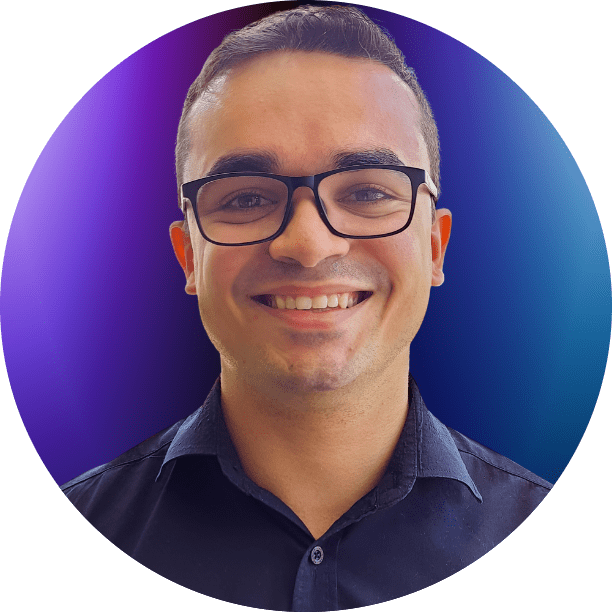
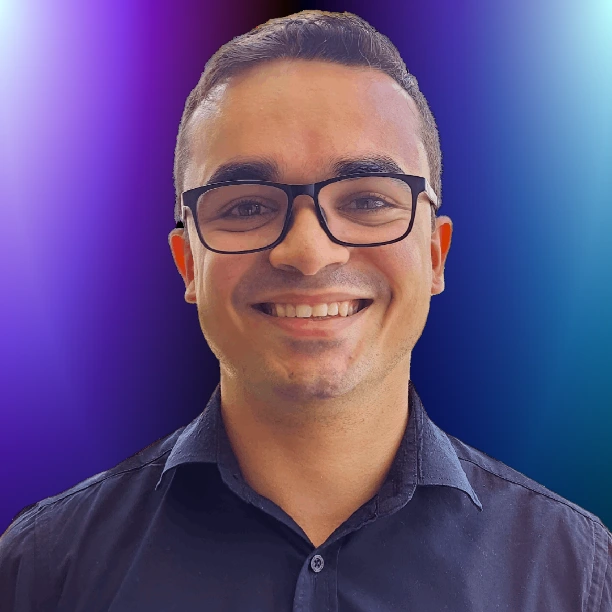
feat: update sections

diff --git a/src/app/[locale]/page.tsx b/src/app/[locale]/page.tsx
@@ -1,19 +1,16 @@
 import { Heading } from "@/components/Heading";
 import { Projects } from "@/components/Projects";
 import { Section } from "@/components/Section";
-import { Jobs } from "@/components/Jobs";
-import { Hero } from "@/components/Hero";
 import { SocialLinks } from "@/components/SocialLinks";
 import CTA from "@/components/CTA";
 import { SkillCards } from "@/components/SkillCards";
 import { Metadata } from "next";
 import { dictionaries, getTranslation } from "./i18n";
-import ia from "@/assets/ia.webp";
-import sorriso from "@/assets/sorriso.webp";
-import wood from "@/assets/wood.webp";
 import arcCarousel from "@/assets/arc-carousel.webp";
 import repowars from "@/assets/repowars.webp";
-import { CoverCard } from "@/components/Card/Cover";
+import { CoverCard } from "@/components/Cards/Cover";
+import { Timeline } from "@/components/Timeline";
+import { ProfilePic } from "@/components/ProfilePic";
 
 type Params = {
   params: {
@@ -28,12 +25,29 @@ export default async function Home({ params }: Params) {
 
   return (
     <div className="backgrounds">
-      <Hero title="Maurício Bruno" tagline={t.hero.tagline}>
-        <SocialLinks />
-      </Hero>
+      <Section id="/" variant="hero">
+        <div
+          className="flex flex-col items-center gap-3 text-center md:items-start md:text-start"
+          data-aos="fade-right"
+          data-aos-duration="200"
+        >
+          <Heading as="h1">Maurício Bruno</Heading>
+          <p className="text-xl text-secondary-color lg:text-3xl">
+            {t.hero.tagline}
+          </p>
+          <div className="flex gap-3 mt-2">
+            <SocialLinks />
+          </div>
+        </div>
+        <ProfilePic data-aos="fade-left" data-aos-duration="200" />
+      </Section>
 
       <Section id="about" variant="featured">
-        <div className="grid items-center lg:grid-cols-2 gap-y-8">
+        <div
+          className="grid items-center lg:grid-cols-2 gap-y-8"
+          data-aos="fade-up"
+          data-aos-offset="200"
+        >
           <div className="text-left text-secondary-color md:text-lg">
             <Heading as="h2">{t.about.title}</Heading>
             <p className="mt-8 mb-4">{t.about.firstParagraph}</p>
@@ -44,36 +58,12 @@ export default async function Home({ params }: Params) {
         </div>
       </Section>
 
-      <Section id="jobs">
-        <Heading as="h2">{t.jobs.title}</Heading>
-        <p className="mt-2 mb-12 text-lg text-secondary-color">
-          {t.jobs.subtitle}
-        </p>
-        <Jobs
-          list={[
-            {
-              title: t.jobs.ia.title,
-              description: t.jobs.ia.description,
-              link: "https://inglesaplicado.com.br/v2",
-              imgUrl: ia,
-            },
-            {
-              title: t.jobs.sorriso.title,
-              description: t.jobs.sorriso.description,
-              link: "https://clinicasorrisoecia.com.br/",
-              imgUrl: sorriso,
-            },
-            {
-              title: t.jobs.wood.title,
-              description: t.jobs.wood.description,
-              link: "https://woodexpress.ind.br/",
-              imgUrl: wood,
-            },
-          ]}
-        />
-      </Section>
-
-      <Section id="projects">
+      <Section
+        id="projects"
+        className="md:pt-28 lg:pt-36"
+        data-aos="fade-up"
+        data-aos-offset="300"
+      >
         <Heading as="h2">{t.projects.title}</Heading>
         <p className="mt-2 text-lg text-secondary-color">
           {t.projects.subtitle}
@@ -108,7 +98,21 @@ export default async function Home({ params }: Params) {
         />
       </Section>
 
-      <Section id="talks">
+      <Section id="experience" data-aos="fade-up" className="md:pt-28 lg:pt-36">
+        <Heading as="h2">{t.experience.title}</Heading>
+        <p className="mt-2 mb-12 text-lg text-secondary-color">
+          {t.experience.subtitle}
+        </p>
+
+        <Timeline experiences={t.experience.list} />
+      </Section>
+
+      <Section
+        id="talks"
+        className="lg:pt-32"
+        data-aos="fade-up"
+        data-aos-offset="300"
+      >
         <Heading as="h2">{t.talks.title}</Heading>
 
         <div className="grid justify-center grid-cols-1 gap-8 mt-16 sm:px-12 md:max-w-2xl md:mx-auto">

diff --git a/src/components/Navbar/index.tsx b/src/components/Navbar/index.tsx
@@ -2,6 +2,7 @@
 import React, { useEffect, useState } from "react";
 import * as NavigationMenu from "@radix-ui/react-navigation-menu";
 import { Hamburger } from "./Hamburger";
+import { twMerge } from "tailwind-merge";
 
 type NavbarProps = {
   links: {
@@ -31,9 +32,11 @@ export const Navbar: React.FC<NavbarProps> = ({ links }) => {
 
   return (
     <NavigationMenu.Root
-      className={`fixed w-full p-4 md:px-12 lg:px-20 md:py-10 z-10  transition-all ${
+      className={twMerge(
+        "fixed w-full p-4 md:px-12 lg:px-20 md:py-10 z-10 transition-all",
         isScrolling && "py-3 gap-y-1 md:py-5 bg-zinc-900/60 backdrop-blur-md"
-      }`}
+      )}
+      data-aos="fade-down"
     >
       <NavigationMenu.List className="flex flex-row items-center justify-between gap-2">
         <NavigationMenu.Item>
@@ -98,24 +101,6 @@ export const Navbar: React.FC<NavbarProps> = ({ links }) => {
           </NavigationMenu.Item>
         </div>
       </NavigationMenu.List>
-
-      {/* <NavigationMenu.List
-        className={`hidden md:flex gap-4 px-4 transition-border ml-auto ${
-          !isScrolling &&
-          "py-2 rounded-full border border-primary-color bg-zinc-900/60 shadow-md shadow-gray-50/20"
-        }`}
-      >
-        {links.map((link) => (
-          <NavigationMenu.Item key={link.name}>
-            <NavigationMenu.Link
-              href={link.href}
-              className="text-secondary-color hover:text-primary-color"
-            >
-              {link.name}
-            </NavigationMenu.Link>
-          </NavigationMenu.Item>
-        ))}
-      </NavigationMenu.List> */}
     </NavigationMenu.Root>
   );
 };

diff --git a/src/components/Cards/Experience.tsx b/src/components/Cards/Experience.tsx
@@ -1,8 +1,5 @@
-import { HTMLAttributes } from "react";
-import { twMerge } from "tailwind-merge";
-
 type ExperienceCardProps = {
-  title: string;
+  company: string;
   role: string;
   period: string;
   description: string;
@@ -10,7 +7,7 @@ type ExperienceCardProps = {
 };
 
 export const ExperienceCard: React.FC<ExperienceCardProps> = ({
-  title,
+  company,
   role,
   period,
   description,
@@ -18,7 +15,7 @@ export const ExperienceCard: React.FC<ExperienceCardProps> = ({
 }) => {
   const content = (
     <>
-      <h3 className="text-xl font-bold text-white">{title}</h3>
+      <h3 className="text-xl font-bold text-white">{company}</h3>
       <p className="mb-4 text-base text-disabled-color">
         {role} | {period}
       </p>

diff --git a/src/components/Timeline/index.tsx b/src/components/Timeline/index.tsx
@@ -4,7 +4,7 @@ import { ExperienceCard } from "../Cards/Experience";
 
 type TimelineProps = HTMLAttributes<HTMLDivElement> & {
   experiences: {
-    title: string;
+    company: string;
     role: string;
     period: string;
     description: string;
@@ -24,8 +24,10 @@ export const Timeline: React.FC<TimelineProps> = ({
 
     elements.push(
       <>
-        <ExperienceCard {...leftExp} />
-        {rightExp && <ExperienceCard {...rightExp} direction="right" />}
+        <ExperienceCard {...leftExp} key={i} />
+        {rightExp && (
+          <ExperienceCard {...rightExp} direction="right" key={i + 1} />
+        )}
       </>
     );
   }

diff --git a/src/app/[locale]/layout.tsx b/src/app/[locale]/layout.tsx
@@ -40,8 +40,8 @@ export default async function RootLayout({ children, params }: LayoutProps) {
         <Navbar
           links={[
             { name: t.navbar.about, href: "/#about" },
-            { name: t.navbar.jobs, href: "/#jobs" },
             { name: t.navbar.projects, href: "/#projects" },
+            { name: t.navbar.experience, href: "/#experience" },
             { name: t.navbar.talks, href: "/#talks" },
             { name: "Blog", href: "/blog" },
           ]}

diff --git a/src/components/Projects/index.tsx b/src/components/Projects/index.tsx
@@ -23,7 +23,7 @@ type ProjectsProps = {
 
 export const Projects: React.FC<ProjectsProps> = ({ list, labels }) => {
   return (
-    <div className="flex flex-col items-center justify-around gap-4 mt-8 md:mt-16">
+    <div className="flex flex-col items-center justify-around gap-4 mt-8 md:mt-16 md:gap-8">
       {list.map((project) => (
         <WideCard
           img={{ src: project.imgSrc, alt: project.title }}
